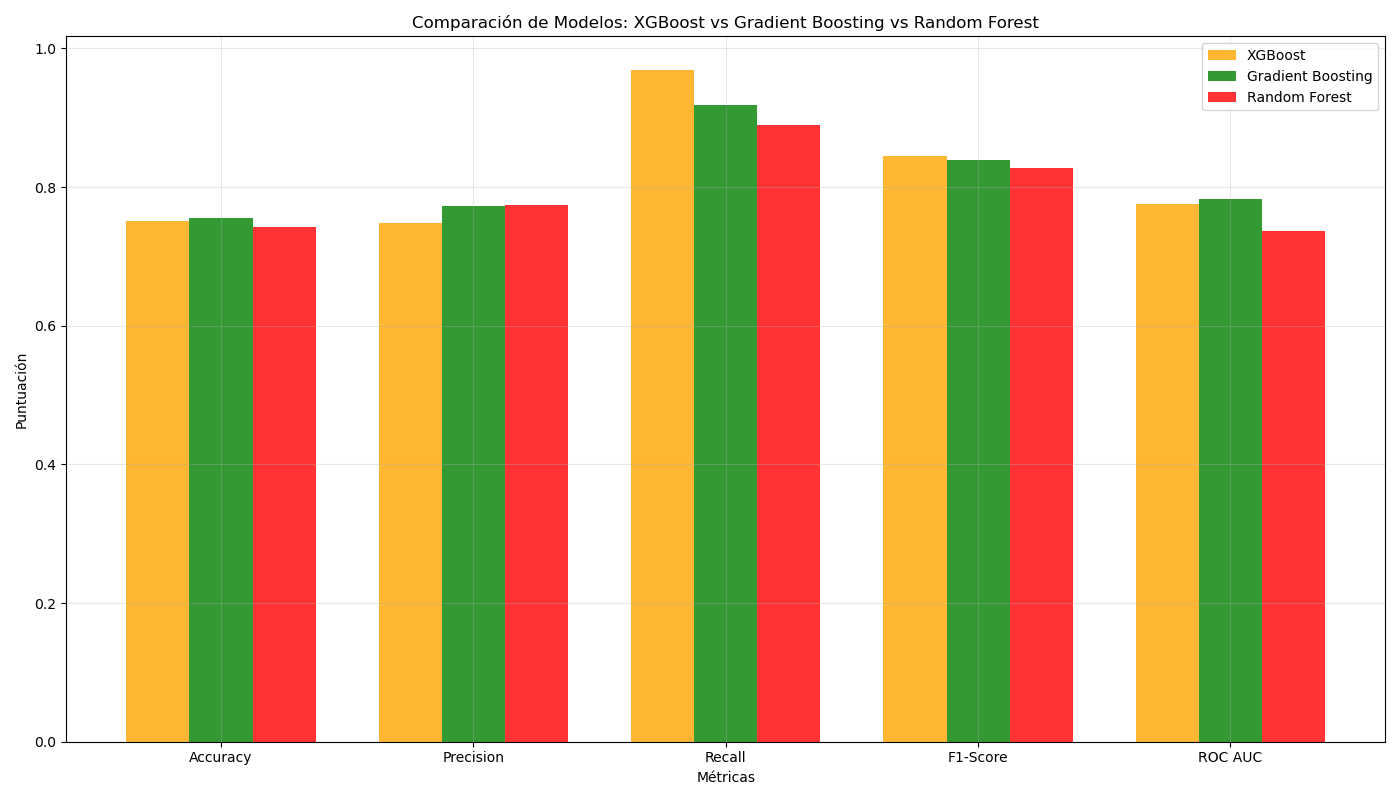
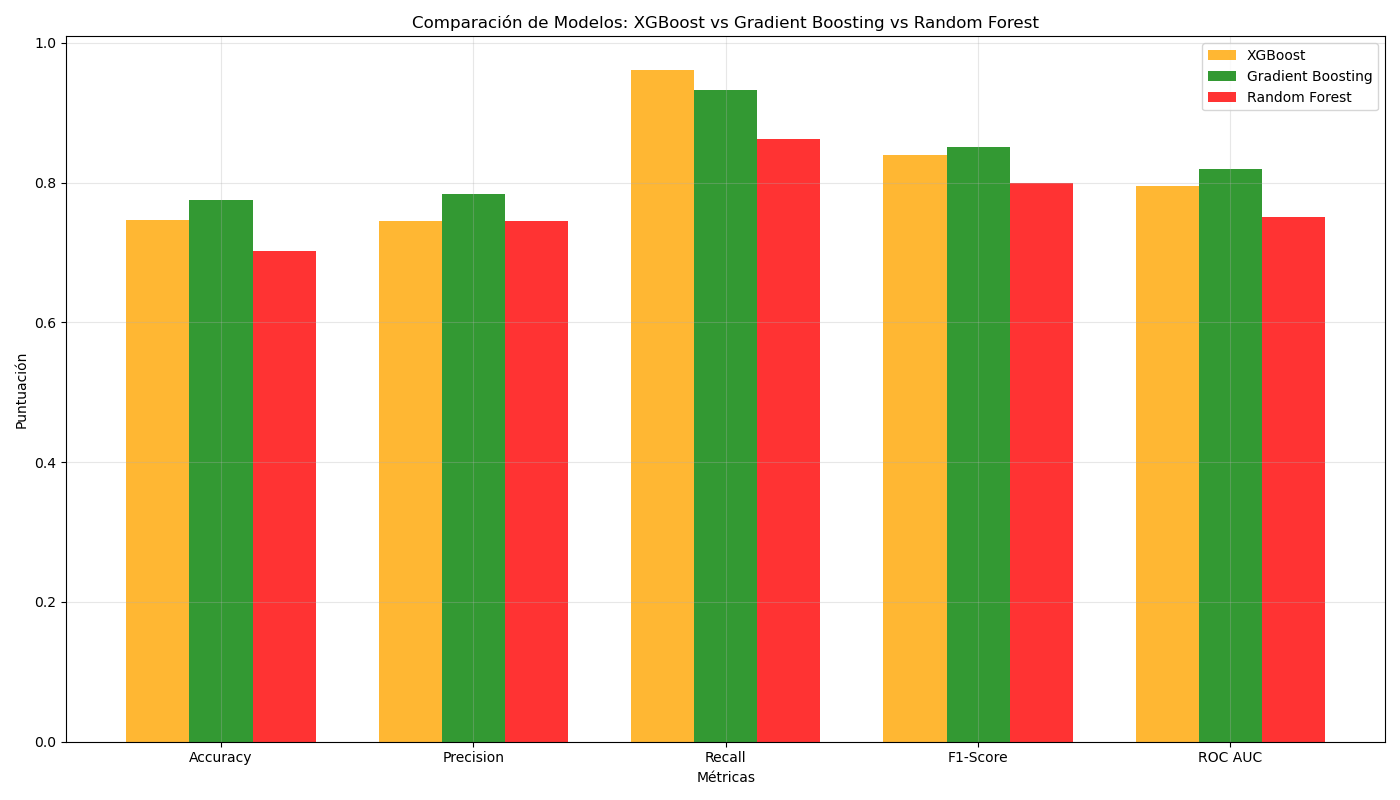
Arreglo de metricas

diff --git a/code/clasificadores/datos_clasificadores.py b/code/clasificadores/datos_clasificadores.py
@@ -12,7 +12,7 @@ from sklearn.metrics import roc_curve, roc_auc_score, classification_report, con
 import matplotlib.pyplot as plt
 import seaborn as sns
 
-dataset =  "recursos/otros/BERT/diagnosticos_F20_F20.89_con_descripcion_sin_dups_limpio.csv"
+dataset =  "TFG/dataset/diagnosticos_binarios_combinados.csv"
 df = pl.read_csv(dataset, separator="|")
 
 seed = int(time.time_ns() % (2**32))
@@ -28,11 +28,11 @@ for col in X.columns:
     X[col] = le.fit_transform(X[col].astype(str))
 
 y = df.select(
-    pl.col("DIAG PSQ").str.contains("Otros tipos de esquizofrenia").cast(pl.Int32).alias("target")
+    pl.col("DIAG PSQ").str.contains("F20.89").cast(pl.Int32).alias("target")
 ).to_pandas()["target"]
 
 # Cargar parámetros desde JSON
-with open(r"code/verificar/params.json", "r") as f:
+with open(r"TFG/dataset/best_params.json", "r") as f:
     all_params = json.load(f)
 
 # Seleccionar el dataset que estás usando
